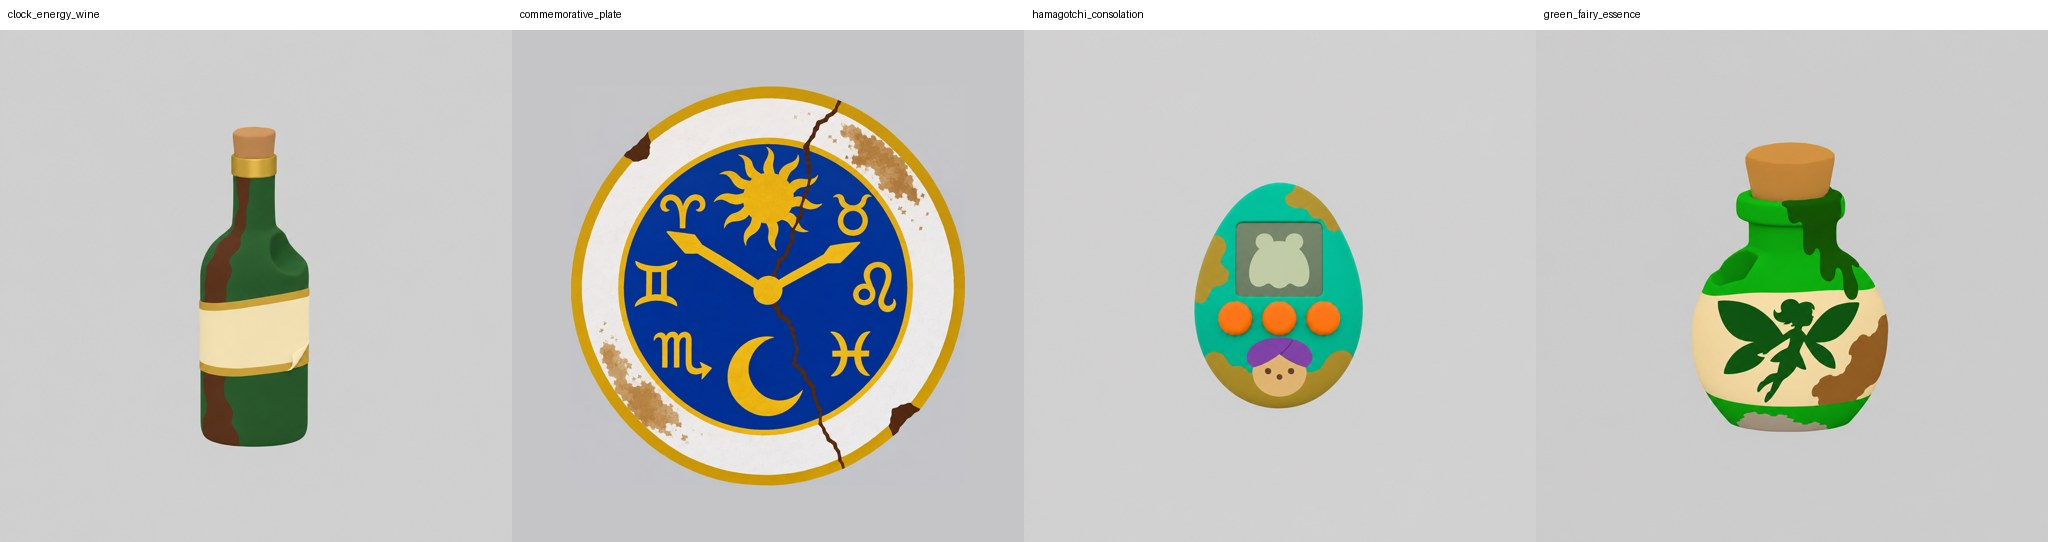
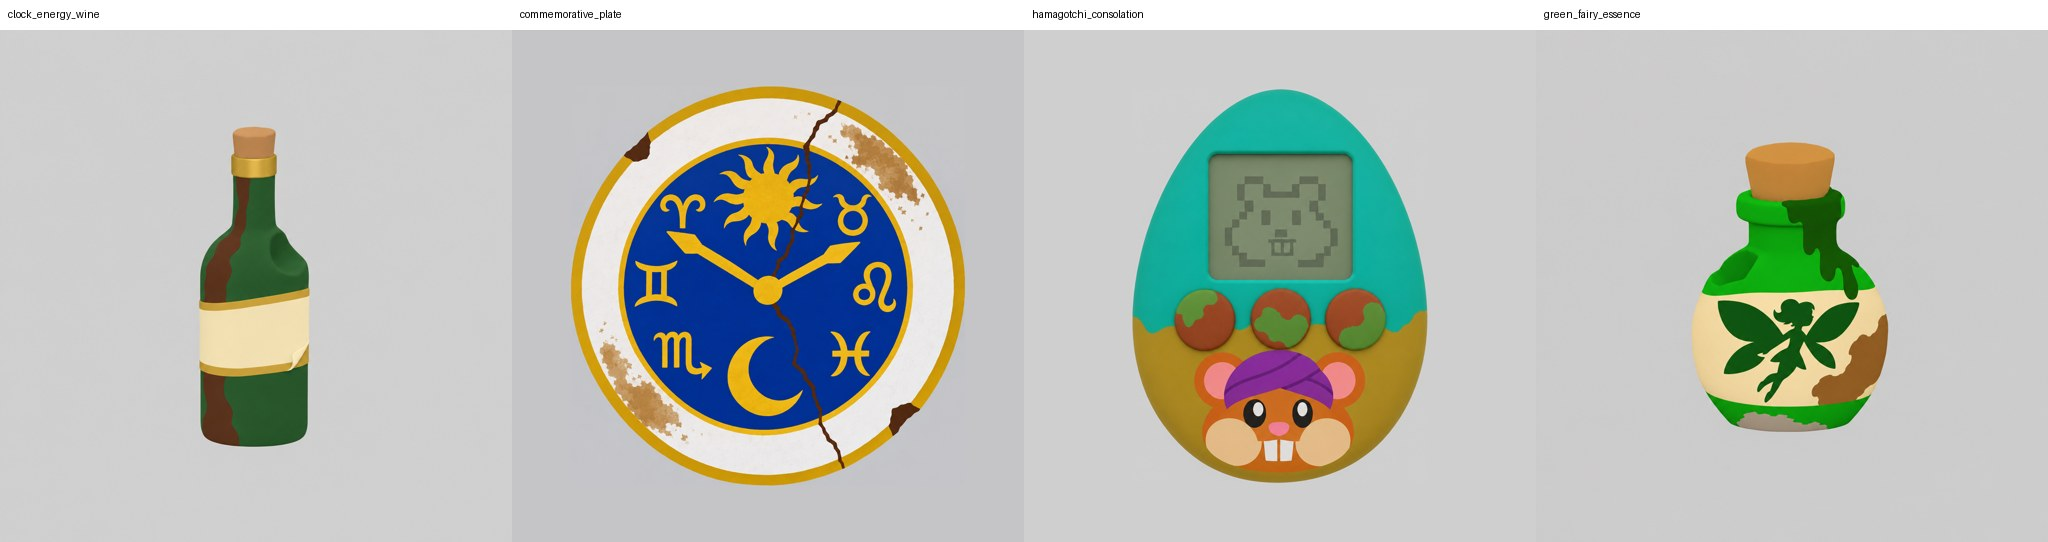
art(debaucheryville): Hamagotchi round 3 reference, unmistakable hamster decal (0 credits, asset team)
Claude-Session: https://claude.ai/code/session_01Rk2Ri3vAu7TBhRadSU9CbJ

Changed region(s): [[0.5312, 0.1476, 0.7188, 0.8856]]

diff --git a/dev/asset_team/icon_refs/hamagotchi_consolation_prompt.md b/dev/asset_team/icon_refs/hamagotchi_consolation_prompt.md
@@ -1,8 +1,8 @@
 # hamagotchi_consolation (Hamagotchi Virtual Hamster Pal): 3D icon reference prompt
 
-Firefly home to Generations, GPT Image 2.6 Sunburst, 1:1, Quality High. Rounds: 2 (round 1 failed A3 on buildability). Margins (Pillow, percent): L33.2 R33.9 T29.8 B26.2.
+Firefly home to Generations, GPT Image 2.6 Sunburst, 1:1, Quality High. Rounds: 3 (rounds 1 and 2 failed A3). Margins (Pillow, percent): L21.2 R21.3 T11.5 B11.6; rescaled onto matching grey (207) for the margin; egg is about 58 percent of the canvas width.
 Canon: `design/items/hamagotchi_consolation_item.md` line 18 (knockoff Tamagotchi, crude printed decal of Hamstradamus's face on the shell, corroded solid buttons, waterlogged, LCD stuck on a faint pixelated hamster ghost outline) plus line 3; Hamstradamus look (turbaned hamster) from `design/worlds/debaucheryville/npcs/Cirque_du_Shady/hamstradamus.md` Appearance table. The doc names no shell colour; teal is carried over from the earlier pixel prompt (`dev/asset_team/prompts/hamagotchi_consolation_prompt.md`) and is a gap for the author to confirm. Pixel-art redo; the old prompt wrongly drew a bearded mystic, corrected to the hamster.
-Shows: a smooth symmetrical egg toy, no top nub, one even teal shell with three broad flat brown-yellow grime patches, big flat grey-green screen with a simple pale ghost-hamster blob, three big orange buttons, a flat decal of a tan round face in a purple turban.
-Lettering: No lettering. The surface carries a mottled rust texture that is finer than ideal; flagged for the A3 reviewer.
+Shows: a smooth symmetrical teal egg, no nub, one flat dull brown-yellow water-stain band across the lower half, big grey-green screen with a blocky pixelated hamster-ghost outline, three big round buttons in flat rust-brown with green corrosion patches, a flat decal of an unmistakable hamster face (round ears, cheek pouches, buck teeth, pink nose) in a purple turban.
+Lettering: none.
 
-Generate an image: A single cheap, over-the-top knockoff virtual-pet toy, drawn SMALL in the middle of a big empty flat light-grey square (central 60 percent of frame). A clean, smooth, perfectly symmetrical egg-shaped handheld virtual pet toy, standing upright, seen straight from the front, with a crisp clean silhouette and NO nub, NO loop, NO lug and NO chain on top: just a plain smooth egg. The whole shell is ONE even flat matte teal colour, worn only by three broad flat grime patches in dull brown-yellow (one big patch across the bottom, one on the left side, one near the top right), no mottling, no noise, no texture. A big square LCD screen in the upper middle in flat murky grey-green, containing one big simple flat pale ghost-hamster silhouette shaped like a round blob with two round ears and a wavy bottom, no face lines, no whiskers. Below the screen three BIG distinct round chunky buttons in a contrasting flat bright orange, each as large as a thumb, standing proud of the shell. On the lower shell one big flat printed decal: a simple round tan hamster face as a flat circle with two dot eyes and a small dot nose, wearing a flat purple turban shape on top, only big flat shapes, no whiskers, no thin lines, no trim, no sparkles, no gems. Stylized 3D toy render, matte opaque surfaces. No text, no letters, no numbers, no speckle, no transparency, no thin parts, no hands, no people, no shadows. Light grey background. Square image.
+Generate an image: A single cheap knockoff virtual-pet toy, drawn in the middle of a flat light-grey square canvas, the toy filling about 60 percent of the canvas width with a clear grey margin on all sides. A clean, smooth, symmetrical egg-shaped handheld virtual pet toy, standing upright, seen straight from the front, crisp silhouette, no nub, no loop, no chain on top. The shell is one even flat matte teal colour with one broad flat dull brown-yellow water-stain band across the lower half, no mottling, no noise. A big square LCD screen in the upper middle in flat murky grey-green, showing a faint blocky pixelated ghost-hamster outline made of big square pixels. Below the screen three BIG chunky round buttons, waterlogged and corroded: each button is flat rust-brown with a broad flat green patch, large and distinct. On the lower shell one big flat printed decal of a HAMSTER face, unmistakably a hamster and not a human: a big round head with two big round ears, fat round cheek pouches, a small pink nose and two big white buck teeth at the front, wearing a flat purple turban on top; only big bold flat shapes, eyes drawn as big simple shapes, no tiny dots, no whiskers, no thin lines, no sparkles. Stylized 3D toy render, matte opaque surfaces. No text, no letters, no numbers, no speckle, no thin parts, no hands, no people, no shadows. Light grey background. Square image.
